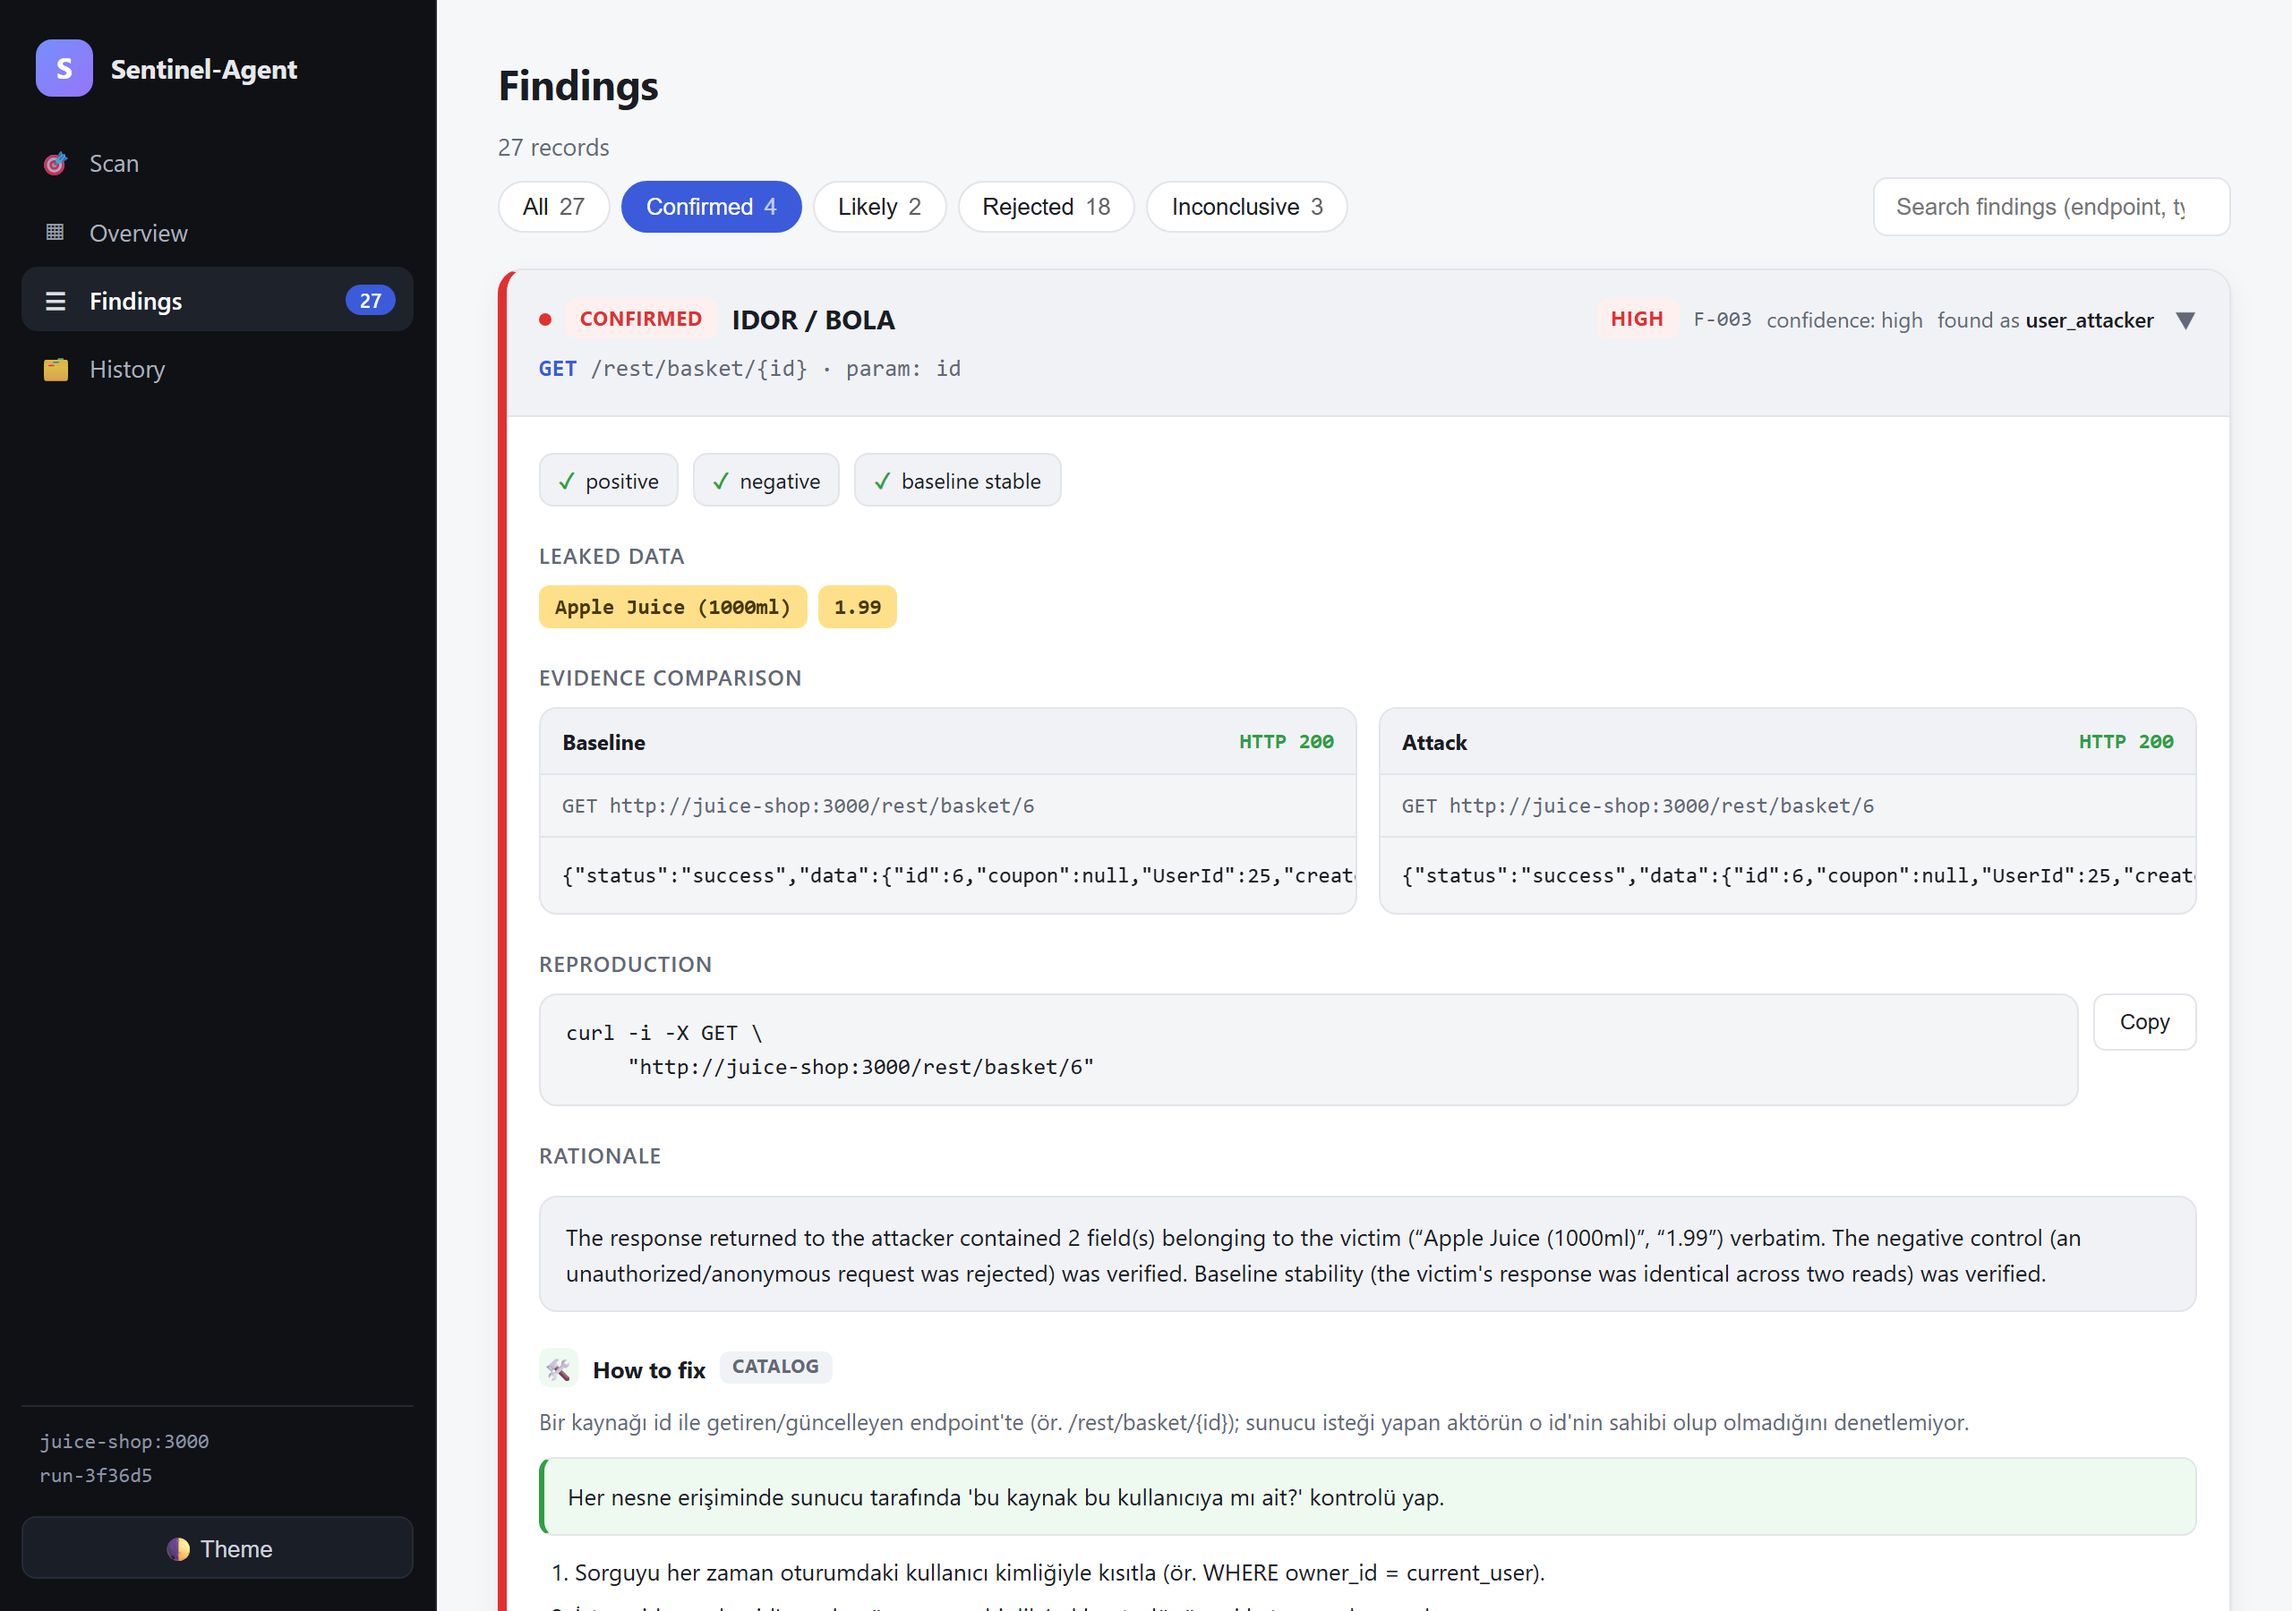
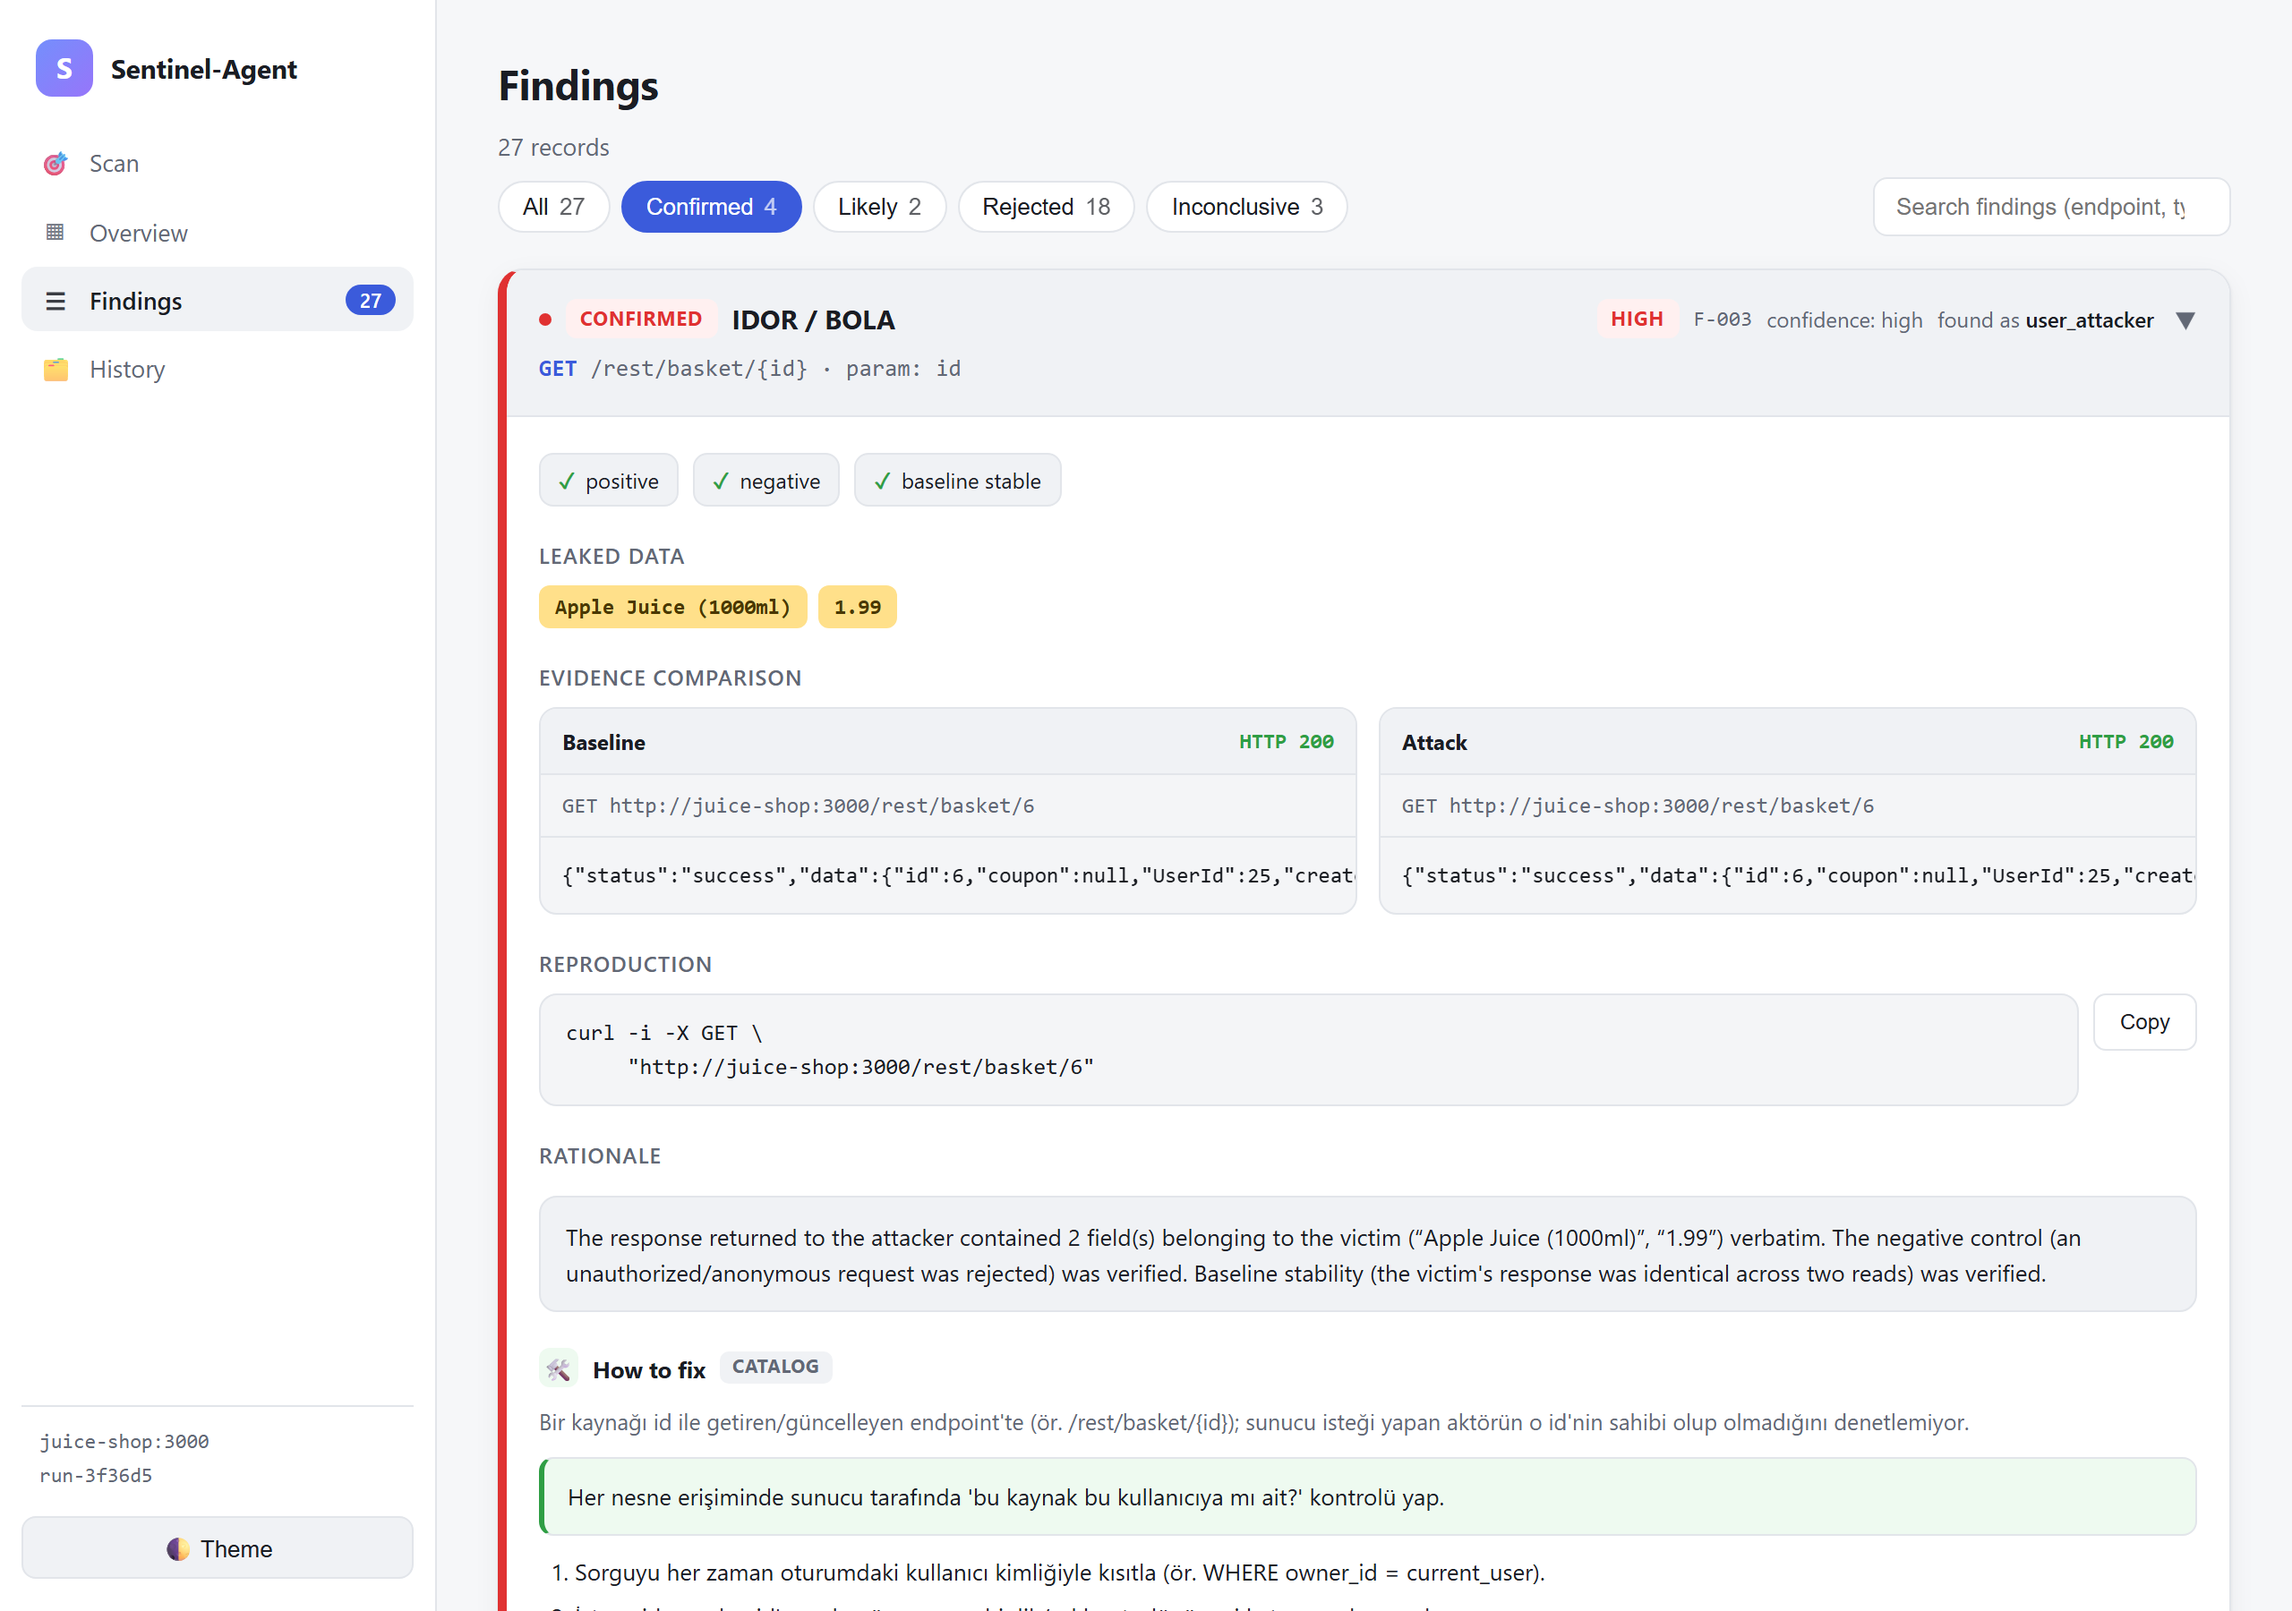
düzeltme: sidebar'ın sabit koyu rengini kaldır, içerikle aynı temaya bağla
Sidebar her zaman siyah/koyu, içerik alanı ise varsayılan açık temaydı — ekran
görüntülerinde 'bir tarafı siyah bir tarafı beyaz' gibi kötü duran bir kontrast
oluşturuyordu. Sidebar artık --surface/--text/--border/--surface-2 token'larını
kullanıyor; içerikle birlikte aynı anda açık ya da aynı anda koyu görünüyor,
tema geçişi ikisini birden değiştiriyor. Değişiklik hem panelde (webui/assets/
index.html) hem statik raporda (report/viewer_template.html) yapıldı.

README'deki docs/web-ui-bulgu.png ve docs/web-ui-tarama.png bu düzeltmeden
sonraki güncel panelden yeniden alındı.

Changed region(s): [[0.0, 0.0, 0.1875, 1.0]]

diff --git a/src/pentestai/webui/assets/index.html b/src/pentestai/webui/assets/index.html
@@ -70,9 +70,9 @@
   /* --- kabuk: sabit koyu sidebar + kaydırılabilir içerik (viewer_template.html ile aynı) --- */
   .shell { display: flex; min-height: 100vh; align-items: stretch; }
 
-  .sidebar { flex: none; width: 244px; background: #0f1115; color: #e6e8ec;
+  .sidebar { flex: none; width: 244px; background: var(--surface); color: var(--text);
     display: flex; flex-direction: column; padding: 18px 12px;
-    border-right: 1px solid #23272f; position: sticky; top: 0; height: 100vh; overflow-y: auto; }
+    border-right: 1px solid var(--border); position: sticky; top: 0; height: 100vh; overflow-y: auto; }
   .sb-brand { display: flex; align-items: center; gap: 10px; padding: 4px 8px 18px; }
   .sb-brand .logo { width: 32px; height: 32px; border-radius: 9px; flex: none;
     background: linear-gradient(135deg, #748ffc, #9775fa); color: #fff; font-weight: 700; font-size: 16px;
@@ -81,22 +81,22 @@
 
   .sb-nav { display: flex; flex-direction: column; gap: 2px; margin-bottom: auto; }
   .sb-item { display: flex; align-items: center; gap: 10px; width: 100%; text-align: left;
-    background: none; border: none; color: #aab0bd; padding: 9px 10px; border-radius: 9px;
+    background: none; border: none; color: var(--muted); padding: 9px 10px; border-radius: 9px;
     font-size: 13.5px; cursor: pointer; font-family: inherit; }
-  .sb-item:hover { background: #1a1e27; color: #e6e8ec; }
-  .sb-item[aria-current="true"] { background: #1e222b; color: #fff; font-weight: 600; }
+  .sb-item:hover { background: var(--surface-2); color: var(--text); }
+  .sb-item[aria-current="true"] { background: var(--surface-2); color: var(--text); font-weight: 600; }
   .sb-item .sb-ic { width: 18px; flex: none; text-align: center; opacity: .85; }
-  .sb-badge { margin-left: auto; background: #2a2f3a; color: #c7cad3; border-radius: 999px;
+  .sb-badge { margin-left: auto; background: var(--surface-2); color: var(--muted); border-radius: 999px;
     padding: 1px 8px; font-size: 11px; font-variant-numeric: tabular-nums; }
-  .sb-item[aria-current="true"] .sb-badge { background: #3b5bdb; color: #fff; }
+  .sb-item[aria-current="true"] .sb-badge { background: var(--accent); color: #fff; }
 
-  .sb-foot { margin-top: 14px; padding: 10px 10px 2px; border-top: 1px solid #23272f;
-    font-size: 11.5px; color: #8b93a3; font-family: ui-monospace, SFMono-Regular, Menlo, Consolas, monospace;
+  .sb-foot { margin-top: 14px; padding: 10px 10px 2px; border-top: 1px solid var(--border);
+    font-size: 11.5px; color: var(--muted); font-family: ui-monospace, SFMono-Regular, Menlo, Consolas, monospace;
     line-height: 1.7; word-break: break-all; }
   .theme-btn { background: var(--surface); border: 1px solid var(--border); color: var(--text);
     border-radius: 8px; padding: 8px 12px; cursor: pointer; font-size: 13px; }
   .theme-btn:hover { border-color: var(--accent); }
-  .sb-theme { margin-top: 10px; width: 100%; background: #1a1e27; border: 1px solid #262b35; color: #cdd1da; }
+  .sb-theme { margin-top: 10px; width: 100%; background: var(--surface-2); border: 1px solid var(--border); color: var(--text); }
   .sb-theme:hover { border-color: var(--accent); }
 
   .content { flex: 1; min-width: 0; max-width: 1180px; padding: 30px 34px 64px; }

diff --git a/src/pentestai/report/viewer_template.html b/src/pentestai/report/viewer_template.html
@@ -83,9 +83,9 @@
   .shell { display: flex; min-height: 100vh; align-items: stretch; }
 
   .sidebar {
-    flex: none; width: 244px; background: #0f1115; color: #e6e8ec;
+    flex: none; width: 244px; background: var(--surface); color: var(--text);
     display: flex; flex-direction: column; padding: 18px 12px;
-    border-right: 1px solid #23272f; position: sticky; top: 0; height: 100vh; overflow-y: auto;
+    border-right: 1px solid var(--border); position: sticky; top: 0; height: 100vh; overflow-y: auto;
   }
   .sb-brand { display: flex; align-items: center; gap: 10px; padding: 4px 8px 18px; }
   .sb-brand .logo { width: 32px; height: 32px; border-radius: 9px; flex: none;
@@ -95,22 +95,22 @@
 
   .sb-nav { display: flex; flex-direction: column; gap: 2px; margin-bottom: auto; }
   .sb-item { display: flex; align-items: center; gap: 10px; width: 100%; text-align: left;
-    background: none; border: none; color: #aab0bd; padding: 9px 10px; border-radius: 9px;
+    background: none; border: none; color: var(--muted); padding: 9px 10px; border-radius: 9px;
     font-size: 13.5px; cursor: pointer; font-family: inherit; }
-  .sb-item:hover { background: #1a1e27; color: #e6e8ec; }
-  .sb-item[aria-current="true"] { background: #1e222b; color: #fff; font-weight: 600; }
+  .sb-item:hover { background: var(--surface-2); color: var(--text); }
+  .sb-item[aria-current="true"] { background: var(--surface-2); color: var(--text); font-weight: 600; }
   .sb-item .sb-ic { width: 18px; flex: none; text-align: center; opacity: .85; }
-  .sb-badge { margin-left: auto; background: #2a2f3a; color: #c7cad3; border-radius: 999px;
+  .sb-badge { margin-left: auto; background: var(--surface-2); color: var(--muted); border-radius: 999px;
     padding: 1px 8px; font-size: 11px; font-variant-numeric: tabular-nums; }
-  .sb-item[aria-current="true"] .sb-badge { background: #3b5bdb; color: #fff; }
+  .sb-item[aria-current="true"] .sb-badge { background: var(--accent); color: #fff; }
 
-  .sb-foot { margin-top: 14px; padding: 10px 10px 2px; border-top: 1px solid #23272f;
-    font-size: 11.5px; color: #8b93a3; font-family: ui-monospace, SFMono-Regular, Menlo, Consolas, monospace;
+  .sb-foot { margin-top: 14px; padding: 10px 10px 2px; border-top: 1px solid var(--border);
+    font-size: 11.5px; color: var(--muted); font-family: ui-monospace, SFMono-Regular, Menlo, Consolas, monospace;
     line-height: 1.7; word-break: break-all; }
   .theme-btn { background: var(--surface); border: 1px solid var(--border); color: var(--text);
                border-radius: 8px; padding: 8px 12px; cursor: pointer; font-size: 13px; }
   .theme-btn:hover { border-color: var(--accent); }
-  .sb-theme { margin-top: 10px; width: 100%; background: #1a1e27; border: 1px solid #262b35; color: #cdd1da; }
+  .sb-theme { margin-top: 10px; width: 100%; background: var(--surface-2); border: 1px solid var(--border); color: var(--text); }
   .sb-theme:hover { border-color: var(--accent); }
 
   .content { flex: 1; min-width: 0; max-width: 1180px; padding: 30px 34px 64px; }
